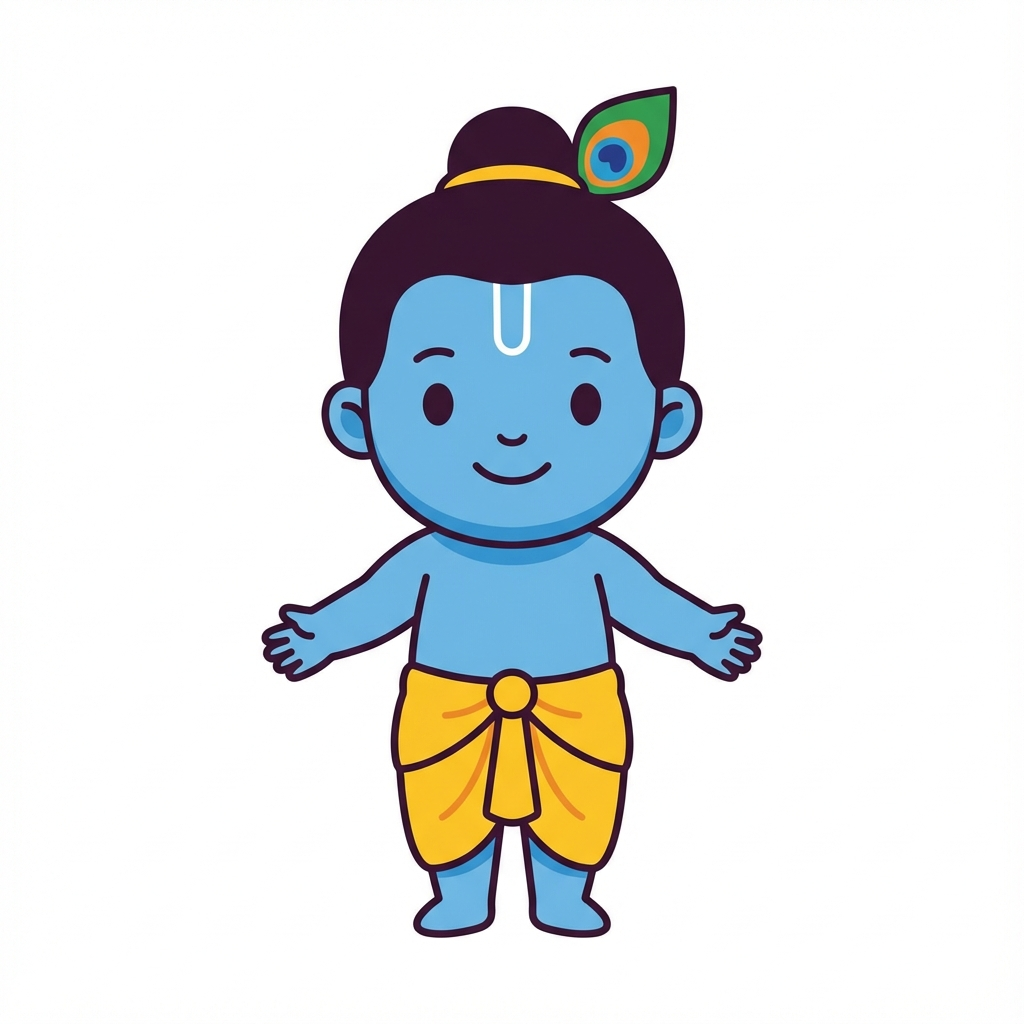
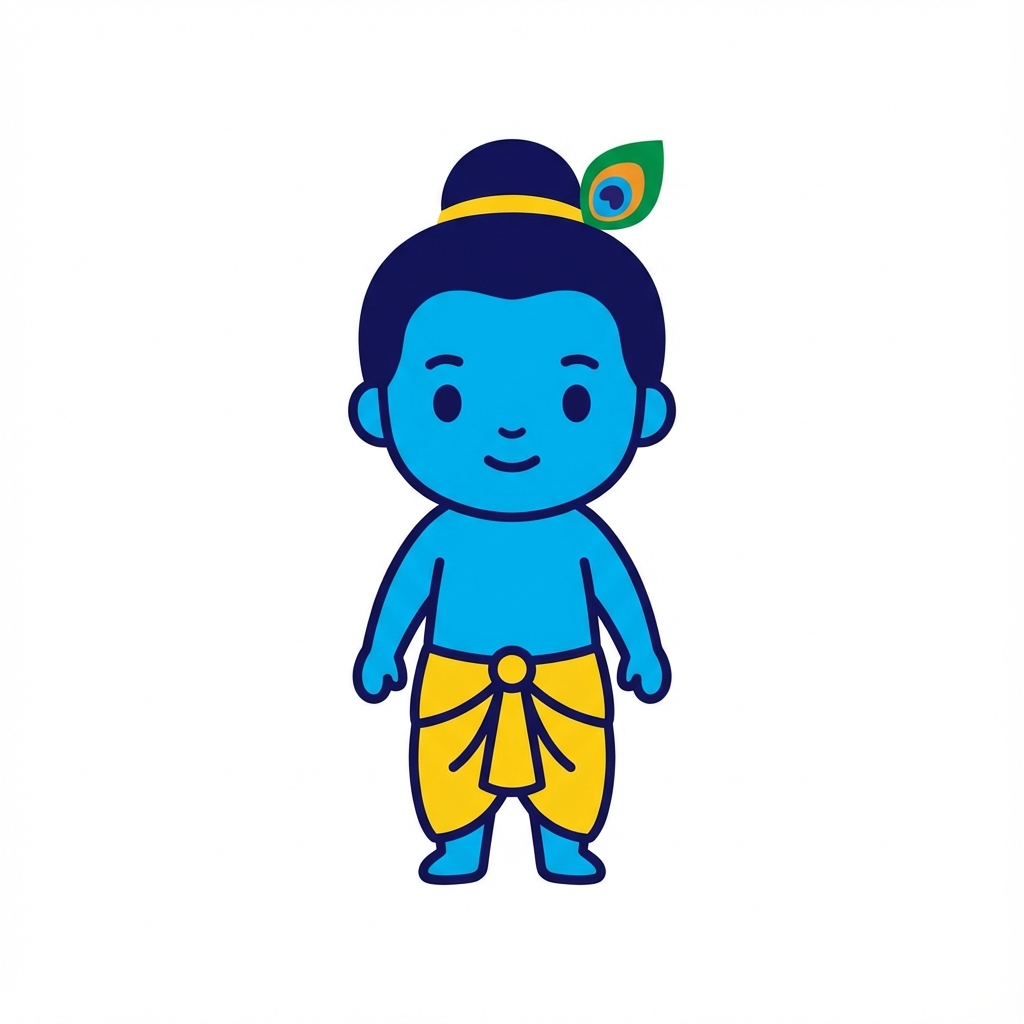
fix: Update Bal Krishna assets & CSS (Transparent PNG, Clickable Sun)

Changed region(s): [[0.25, 0.0625, 0.75, 0.9375]]

diff --git a/apps/gopal/css/style.css b/apps/gopal/css/style.css
@@ -67,6 +67,11 @@ body.gopal-app {
     right: 20px;
     top: 20px;
     animation: float 6s ease-in-out infinite;
+    cursor: pointer;
+    /* Interaction hint */
+    pointer-events: auto;
+    /* Enable clicks */
+    z-index: 10;
 }
 
 .ground-layer {
@@ -85,8 +90,10 @@ body.gopal-app {
     bottom: 5%;
     left: 50%;
     transform: translateX(-50%);
-    width: 200px;
-    height: 300px;
+    width: 250px;
+    /* Slightly wider */
+    height: 350px;
+    /* Taller to fit full body */
     display: flex;
     align-items: flex-end;
     justify-content: center;
